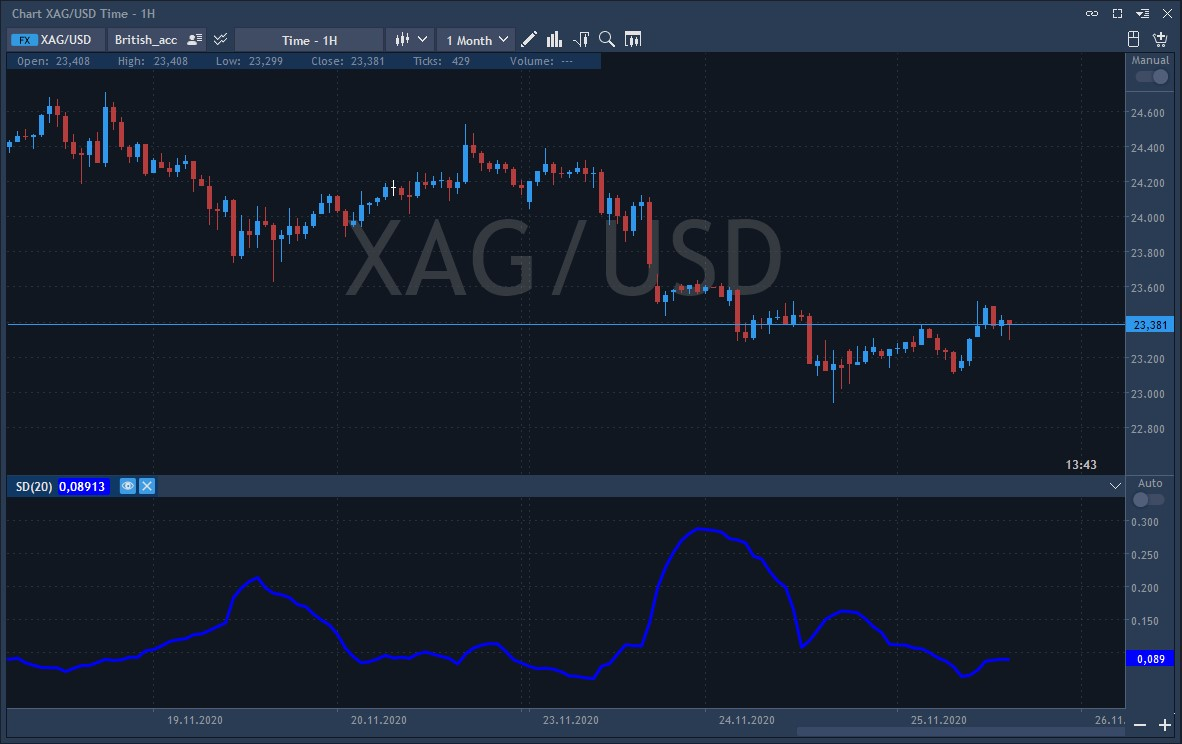
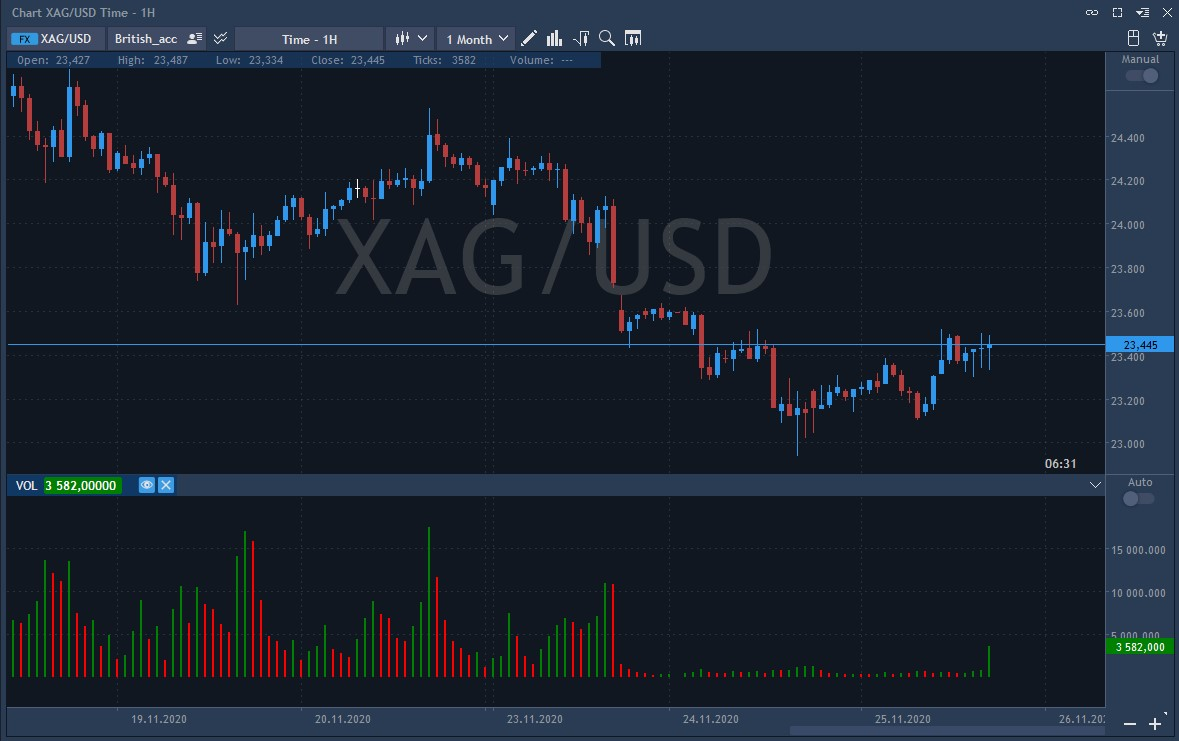
GitBook: [master] 5 pages and 4 assets modified

diff --git a/desktop-application-for-windows/windows/technical-indicators/volume/volume.md b/desktop-application-for-windows/windows/technical-indicators/volume/volume.md
@@ -1,0 +1,10 @@
+# Volume
+
+Volume points to the amount of a financial instrument that was traded over a specified period of time. It can refer to shares, contracts, or lots. The data is tracked and provided by market exchanges. It is one of the oldest and most popular indicators and is usually plotted in colored columns, green for up volume and red for down volume, with a moving average. It is one of the few indicators that is not based on price. High volume points to a high interest in an instrument at its current price and vice versa.
+
+A sudden increase in trading volume points to an increased probability of the price changing. News events are typical moments when the volume can increase. Strong trending moves go hand in hand with an increased trading volume. It can therefore be seen as a measure of strength. One would expect high buying volume at a support level and high selling volume at a resistance level. There are several ways to use volume in a trading strategy and most traders use it in combination with other analysis techniques.
+
+This indicator looks as follows on the chart:
+
+![](../../../../.gitbook/assets/screenshot_2%20%2832%29.jpg)
+

diff --git a/SUMMARY.md b/SUMMARY.md
@@ -94,6 +94,7 @@
         * [MFI \(Money flow index\)](desktop-application-for-windows/windows/technical-indicators/volume/mfi-money-flow-index.md)
         * [OBV \(On balance volume\)](desktop-application-for-windows/windows/technical-indicators/volume/obv-on-balance-volume.md)
         * [PVI \(Positive volume index\)](desktop-application-for-windows/windows/technical-indicators/volume/pvi-positive-volume-index.md)
+        * [Volume](desktop-application-for-windows/windows/technical-indicators/volume/volume.md)
       * [Other](desktop-application-for-windows/windows/technical-indicators/other/README.md)
         * [Didi index](desktop-application-for-windows/windows/technical-indicators/other/didi-index.md)
         * [EATR \(Envelopes ATR\)](desktop-application-for-windows/windows/technical-indicators/other/eatr-envelopes-atr.md)

diff --git a/desktop-application-for-windows/windows/technical-indicators/trend/untitled.md b/desktop-application-for-windows/windows/technical-indicators/trend/untitled.md
@@ -16,7 +16,7 @@ Percent deviation – percentage of a price change that is required to change th
 
 The indicator looks as follows on the chart:
 
-![](../../../../.gitbook/assets/screenshot_2%20%2833%29.jpg)
+![](../../../../.gitbook/assets/screenshot_2%20%2834%29.jpg)
 
 
 

diff --git a/desktop-application-for-windows/windows/technical-indicators/trend/sar-parabolic-time-price-system.md b/desktop-application-for-windows/windows/technical-indicators/trend/sar-parabolic-time-price-system.md
@@ -49,5 +49,5 @@ Current SAR = Prior SAR – Prior AF \* \(Prior EP – Prior SAR\)
 
 The indicator itself looks as follows on the chart:
 
-![](../../../../.gitbook/assets/screenshot_2%20%2834%29.jpg)
+![](../../../../.gitbook/assets/screenshot_2%20%2835%29.jpg)
 

diff --git a/desktop-application-for-windows/windows/technical-indicators/volatility/sd-standard-deviation.md b/desktop-application-for-windows/windows/technical-indicators/volatility/sd-standard-deviation.md
@@ -45,5 +45,5 @@ ApPRICE \(i\) — applied price of the current bar.
 
 The Standard deviation technical indicator looks as follows:
 
-![](../../../../.gitbook/assets/screenshot_2%20%2832%29.jpg)
+![](../../../../.gitbook/assets/screenshot_2%20%2833%29.jpg)
 
